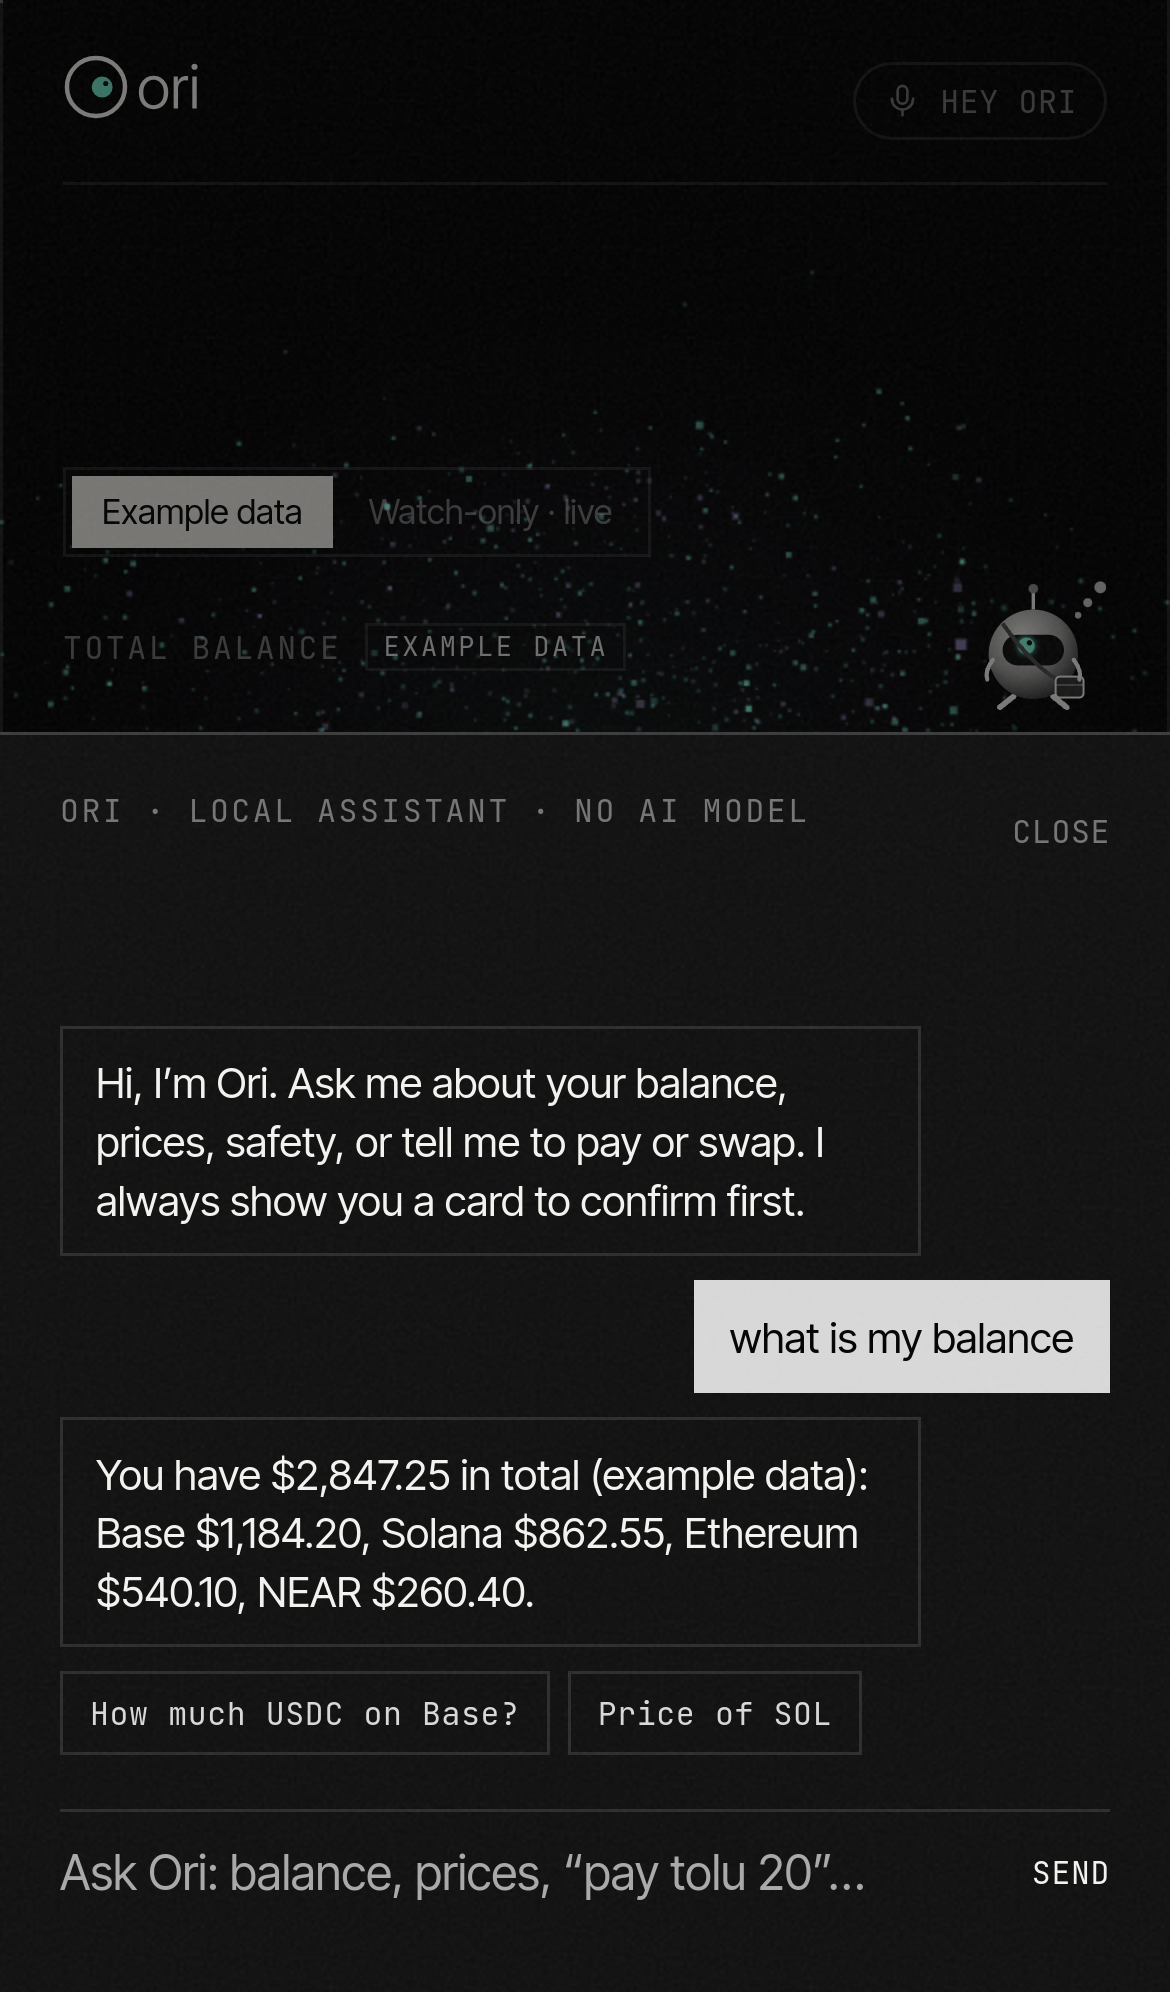
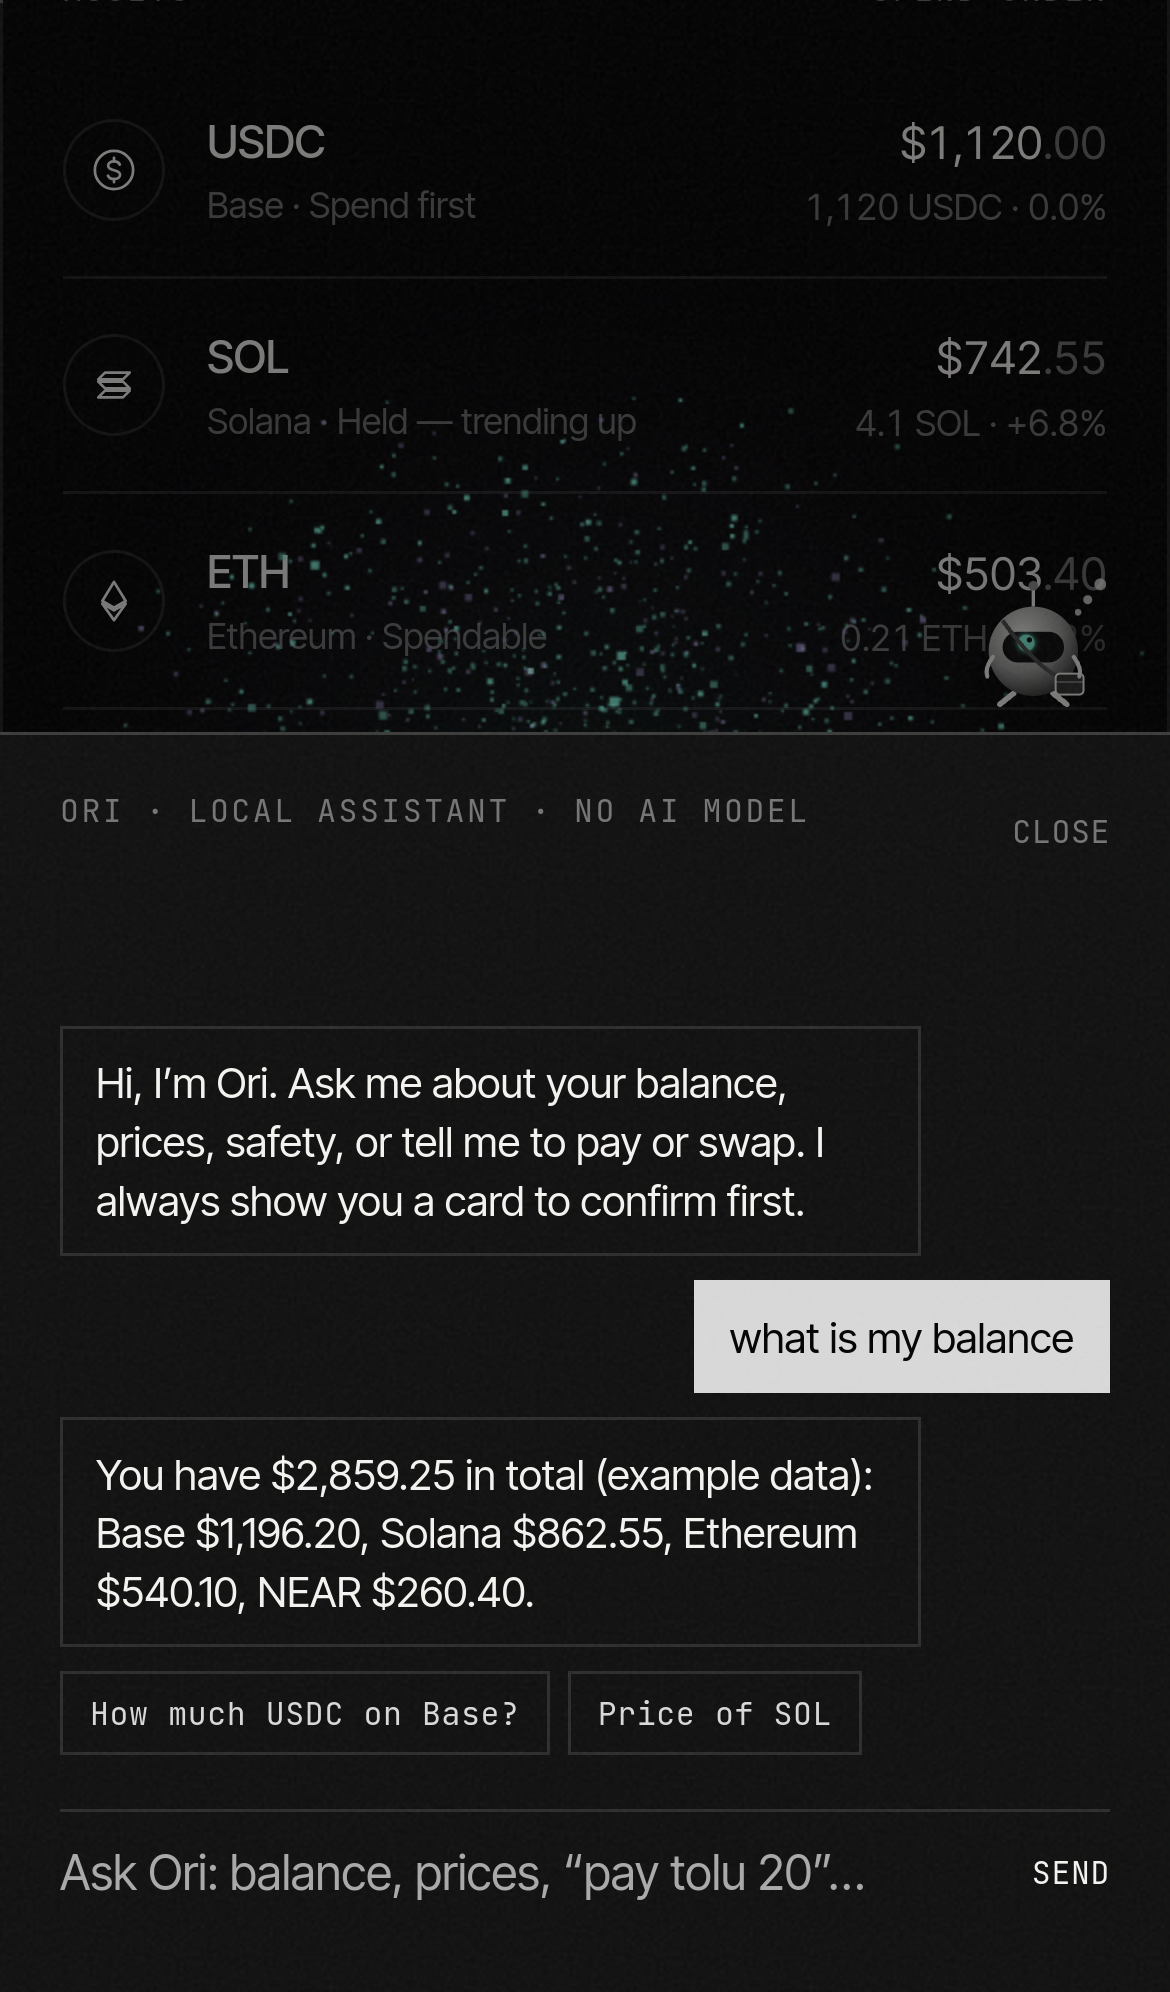
Hide closed chat sheet fully (desktop peek fix)

diff --git a/app/src/App.tsx b/app/src/App.tsx
@@ -542,7 +542,7 @@ export default function App() {
       </motion.div></>}</AnimatePresence>
     <AnimatePresence>{chat && <motion.div className="scrim" initial={{ opacity: 0 }} animate={{ opacity: 1 }} exit={{ opacity: 0 }} onClick={() => setChat(false)} />}</AnimatePresence>
     {/* sheet stays mounted so the input can be focused synchronously inside the tap gesture (iOS only shows the keyboard then) */}
-      <motion.div className={'sheet' + (chat ? ' open' : '')} initial={false} animate={{ y: chat ? 0 : 460 }} transition={spring} aria-hidden={!chat}>
+      <motion.div className={'sheet' + (chat ? ' open' : '')} initial={false} animate={{ y: chat ? 0 : 'calc(100% + 140px)', opacity: chat ? 1 : 0 }} transition={spring} aria-hidden={!chat}>
         <div className="sheet-head"><Label>ORI · LOCAL ASSISTANT · NO AI MODEL</Label><button className="mono xs dim" onClick={() => setChat(false)}>CLOSE</button></div>
         <div className="msgs" data-lenis-prevent>{msgs.slice(-14).map((m, k) => { const i = msgs.length - Math.min(14, msgs.length) + k; return <motion.div key={i} className={'msgw ' + (m.who === 'me' ? 'me' : 'bot')} initial={{ opacity: 0, y: 8 }} animate={{ opacity: 1, y: 0 }} transition={spring}>
           <div className={'msg ' + (m.who === 'me' ? 'me' : 'bot')}>{m.t}</div>
